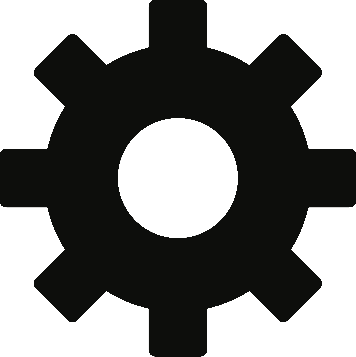
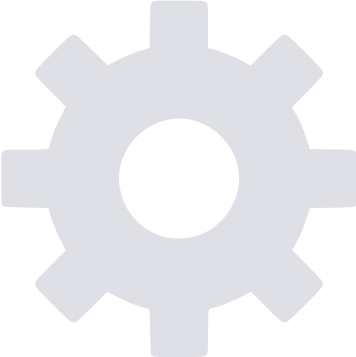
UI update
spotify's update changed to mainly black so...

diff --git a/css/main.css b/css/main.css
@@ -251,30 +251,42 @@ body, html {
   box-sizing: border-box;
 }
 
-/* line 15, ../sass/main.scss */
+/* line 31, ../sass/main.scss */
 a {
   text-decoration: none;
 }
 
-/* line 19, ../sass/main.scss */
+/* line 35, ../sass/main.scss */
 html, body {
+  height: 100%;
+  color: #a1a3a6;
+}
+
+/* line 43, ../sass/main.scss */
+#view_container {
+  height: calc(100% - 60px);
+  background-color: #222326;
+}
+/* line 47, ../sass/main.scss */
+#view_container .view {
   height: 100%;
 }
 
-/* line 31, ../sass/main.scss */
-#view_container {
-  height: calc(100% - 60px - 34px);
+/* line 52, ../sass/main.scss */
+.sp-throbber-background {
+  background-color: #ecebe8;
 }
-/* line 34, ../sass/main.scss */
-#view_container .view {
-  height: 100%;
+
+/* line 56, ../sass/main.scss */
+.sp-tabbar {
+  display: none !important;
 }
 
 /* imports */
 /* Header Styles */
 /* line 4, ../sass/_header.scss */
 .sp-header {
-  background-color: #333;
+  background-color: #222326;
   max-height: 60px;
   position: relative;
   min-height: 60px;
@@ -298,7 +310,7 @@ html, body {
   top: 15px;
   padding-left: 10px;
   padding-right: 10px;
-  background-color: black;
+  background-color: #313336;
   margin-left: 10px;
 }
 /* line 37, ../sass/_header.scss */
@@ -331,83 +343,86 @@ html, body {
 #view_container {
   overflow: hidden;
   position: relative;
+  background-color: #1c1c1f;
 }
 
-/* line 11, ../sass/_now_playing.scss */
+/* line 12, ../sass/_now_playing.scss */
 .settings {
   position: absolute;
   z-index: 2;
   top: 10px;
-  right: 20px;
+  right: 10px;
 }
-/* line 17, ../sass/_now_playing.scss */
+/* line 18, ../sass/_now_playing.scss */
 .settings .settings-btn {
   float: right;
   width: 20px;
   height: 20px;
-  margin-bottom: 10px;
-  margin-right: 4px;
-  background: url(../img/settings-dark.png) no-repeat;
+  margin: 10px 4px 10px 0;
+  opacity: 0.8;
+  background: url(../img/settings.png) no-repeat;
   background-size: cover;
 }
-/* line 28, ../sass/_now_playing.scss */
+/* line 29, ../sass/_now_playing.scss */
 .settings .settings-btn:hover {
   cursor: pointer;
 }
-/* line 32, ../sass/_now_playing.scss */
+/* line 33, ../sass/_now_playing.scss */
 .settings .settings-btn.opened {
-  opacity: 0.8;
+  opacity: 1;
 }
-/* line 36, ../sass/_now_playing.scss */
+/* line 37, ../sass/_now_playing.scss */
 .settings .settings-btn:active {
   -webkit-transform: scale(0.9, 0.9);
 }
-/* line 41, ../sass/_now_playing.scss */
+/* line 42, ../sass/_now_playing.scss */
 .settings .settings-form {
   display: none;
   position: relative;
   float: right;
   padding: 10px 6px;
-  background-color: #ecebe8;
+  background-color: #222326;
   border-radius: 2px;
   border-width: 1px;
-  border-color: #bbb;
+  border-color: #999;
   border-style: solid;
 }
-/* line 54, ../sass/_now_playing.scss */
+/* line 55, ../sass/_now_playing.scss */
 .settings .settings-form .tri {
   position: absolute;
   top: -5px;
   right: 8px;
   width: 10px;
   height: 10px;
-  background-color: #ecebe8;
+  background-color: #222326;
   border-radius: 2px;
   border-width: 1px;
-  border-color: #bbb transparent transparent #bbb;
+  border-color: #999 transparent transparent #999;
   border-style: solid;
   -webkit-transform: rotate(45deg);
 }
-/* line 71, ../sass/_now_playing.scss */
+/* line 72, ../sass/_now_playing.scss */
 .settings .settings-form .option {
   overflow: auto;
 }
-/* line 74, ../sass/_now_playing.scss */
+/* line 75, ../sass/_now_playing.scss */
 .settings .settings-form .option:not(.first-child) {
   margin-top: 5px;
 }
-/* line 78, ../sass/_now_playing.scss */
+/* line 79, ../sass/_now_playing.scss */
 .settings .settings-form .option label {
   float: left;
   margin-right: 5px;
 }
-/* line 82, ../sass/_now_playing.scss */
+/* line 83, ../sass/_now_playing.scss */
 .settings .settings-form .option input {
   padding: 2px;
   width: 30px;
   float: right;
+  background-color: #222326;
+  border-width: 1px;
 }
-/* line 87, ../sass/_now_playing.scss */
+/* line 90, ../sass/_now_playing.scss */
 .settings .settings-form .option input[name=treemode] {
   margin-top: 5px;
   margin-left: 5px;

diff --git a/sass/_now_playing.scss b/sass/_now_playing.scss
@@ -5,6 +5,7 @@
 #view_container  {
   overflow: hidden;
   position: relative;
+  background-color: $new-bg-darker;
 }
 
 
@@ -12,17 +13,17 @@
   position: absolute;
   z-index: 2;
   top: 10px;
-  right: 20px;
+  right: 10px;
 
   .settings-btn {
     float: right;
 
     width: 20px;
     height: 20px;
-    margin-bottom: 10px;
-    margin-right: 4px;
+    margin: 10px 4px 10px 0;
+    opacity: 0.8;
 
-    background: url(../img/settings-dark.png) no-repeat;
+    background: url(../img/settings.png) no-repeat;
     background-size: cover;
 
     &:hover {
@@ -30,7 +31,7 @@
     }
 
     &.opened {
-      opacity: 0.8;
+      opacity: 1;
     }
 
     &:active {
@@ -45,10 +46,10 @@
   
     padding: 10px 6px;
 
-    background-color: $bg-color;
+    background-color: $new-bg;
     border-radius: 2px;
     border-width: 1px;
-    border-color: #bbb;
+    border-color: #999;
     border-style: solid;
 
     .tri {
@@ -59,10 +60,10 @@
       width: 10px;
       height: 10px;
       
-      background-color: $bg-color;
+      background-color: $new-bg;
       border-radius: 2px;
       border-width: 1px;
-      border-color: #bbb transparent transparent #bbb;
+      border-color: #999 transparent transparent #999;
       border-style: solid;
 
       -webkit-transform: rotate(45deg);
@@ -83,6 +84,8 @@
         padding: 2px;
         width: 30px;
         float: right;
+        background-color: $new-bg;
+        border-width: 1px;
 
         &[name=treemode] {
           margin-top: 5px;

diff --git a/sass/main.scss b/sass/main.scss
@@ -12,28 +12,49 @@ body, html {
   box-sizing: border-box;
 }
 
+$bg-color: #ecebe8;
+$bg-dark: #474747;
+$bg-light: #6b6b6b;
+
+$new-bg: #222326;
+$new-bg-lighter1: #2e2f33;
+$new-bg-lighter2: #313336;
+$new-bg-darker: #1c1c1f;
+$new-white: #dfe0e6;
+
+$font-color: #a1a3a6;
+
+$header-height: 60px;
+$tabs-height: 34px;
+$content-height: calc(100% - #{$header-height});
+
 a {
   text-decoration: none;
 }
 
 html, body {
   height: 100%;
+
+  color: $font-color;
 }
 
-$bg-color: #ecebe8;
-$bg-dark: #474747;
-$bg-light: #6b6b6b;
 
-$header-height: 60px;
-$tabs-height: 34px;
-$content-height: calc(100% - #{$header-height} - #{$tabs-height});
 
 #view_container {
   height: $content-height;
+  background-color: $new-bg;
   
   .view {
     height: 100%;
   }
+}
+
+.sp-throbber-background {
+  background-color: $bg-color;
+}
+
+.sp-tabbar {
+  display: none !important;
 }
 
 /* imports */

diff --git a/js/controllers/nowplaying.js b/js/controllers/nowplaying.js
@@ -25,6 +25,12 @@ var NowPlaying = function(viewId, viewpath) {
       shape: 'box',
       radius: 1,
     },
+    edges: {
+      color: {
+        color: '#8f9096',
+        highlight: '#8f9096'
+      }
+    },
     stabilize: true
     // clustering: true
   };
@@ -54,8 +60,13 @@ NowPlaying.prototype = {
     });
   },
   updateView: function() {
-    if (this.artistGraph)
+    if (this.artistGraph) {
       this.artistGraph.redraw();
+      if (this.artistGraph.throbber)
+        this.artistGraph.throbber.setPosition('center', 'center');
+    }
+
+
 
     return this;
   },
@@ -140,6 +151,7 @@ NowPlaying.prototype = {
     this.artistGraph.throbber =
       Throbber.forElement(document.getElementById(this.viewId));
     this.artistGraph.throbber.setPosition('center', 'center');
+    this.artistGraph.throbber._addBackground();
   }
 };
 

diff --git a/js/models/artistgraph.js b/js/models/artistgraph.js
@@ -92,7 +92,7 @@ ArtistGraph.prototype = {
           var extraEdge = {
             from: rootArtist.nodeid,
             to: duplicated.id,
-            color: '#ddd'
+            color: '#aaa'
           };
 
           this.extraEdges.push(extraEdge);
@@ -160,6 +160,7 @@ ArtistGraph.prototype = {
       console.log('# nodes: ' + this.data.nodes.length);
       console.log('# edges: ' + this.data.edges.length);
     }
+
   },
   updateGraph: function(config) {
     this.branching = config.branching || this.branching;

diff --git a/sass/_header.scss b/sass/_header.scss
@@ -2,7 +2,7 @@
 
 
 .sp-header {
-  background-color: #333;
+  background-color: $new-bg;
   max-height: $header-height;
   position: relative;
 
@@ -31,7 +31,7 @@
 
     padding-left: 10px;
     padding-right: 10px;
-    background-color: black;
+    background-color: $new-bg-lighter2;
     margin-left: 10px;
 
     a {
